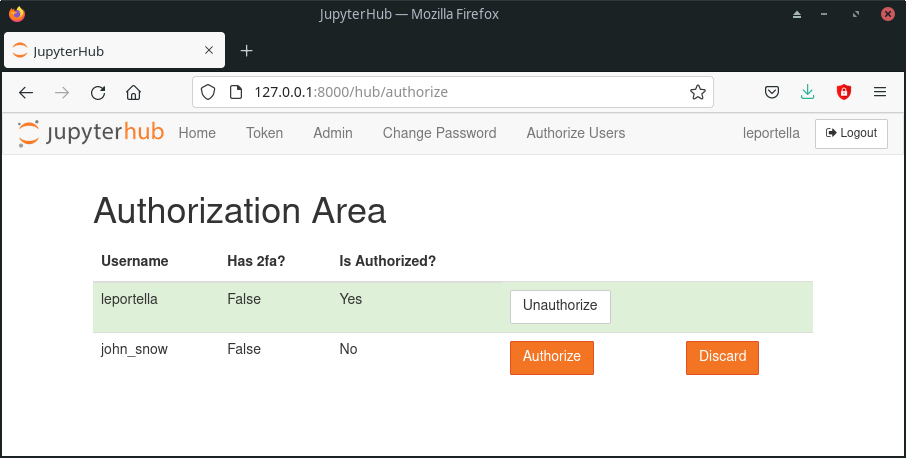
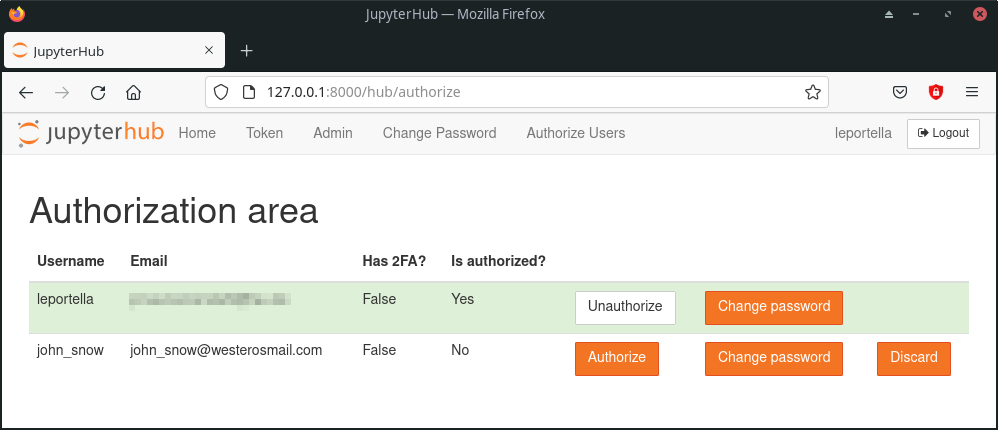
update documentation screenshots

diff --git a/docs/source/quickstart.md b/docs/source/quickstart.md
@@ -73,8 +73,14 @@ To authorize new users to enter the system or to manage those that already have 
 
 ![](_static/authorization_area.png)
 
-## Change password
+## Changing your own password
 
 Users that are logged in the system can easily change their password by going to: `/hub/change-password` or clicking the "Change Password" element on their home page.
 
-![](_static/change-password.png)
+![](_static/change_password_self.png)
+
+## Changing a user's password as admin
+
+In case any user forgets or misplaces their account password, admins can reset it to a password of their choosing. Simply navigate to `/hub/change-password/SomeUserName` or click the "Change Password" element of that user in the authorization area.
+
+![](_static/change_password_user.png)
